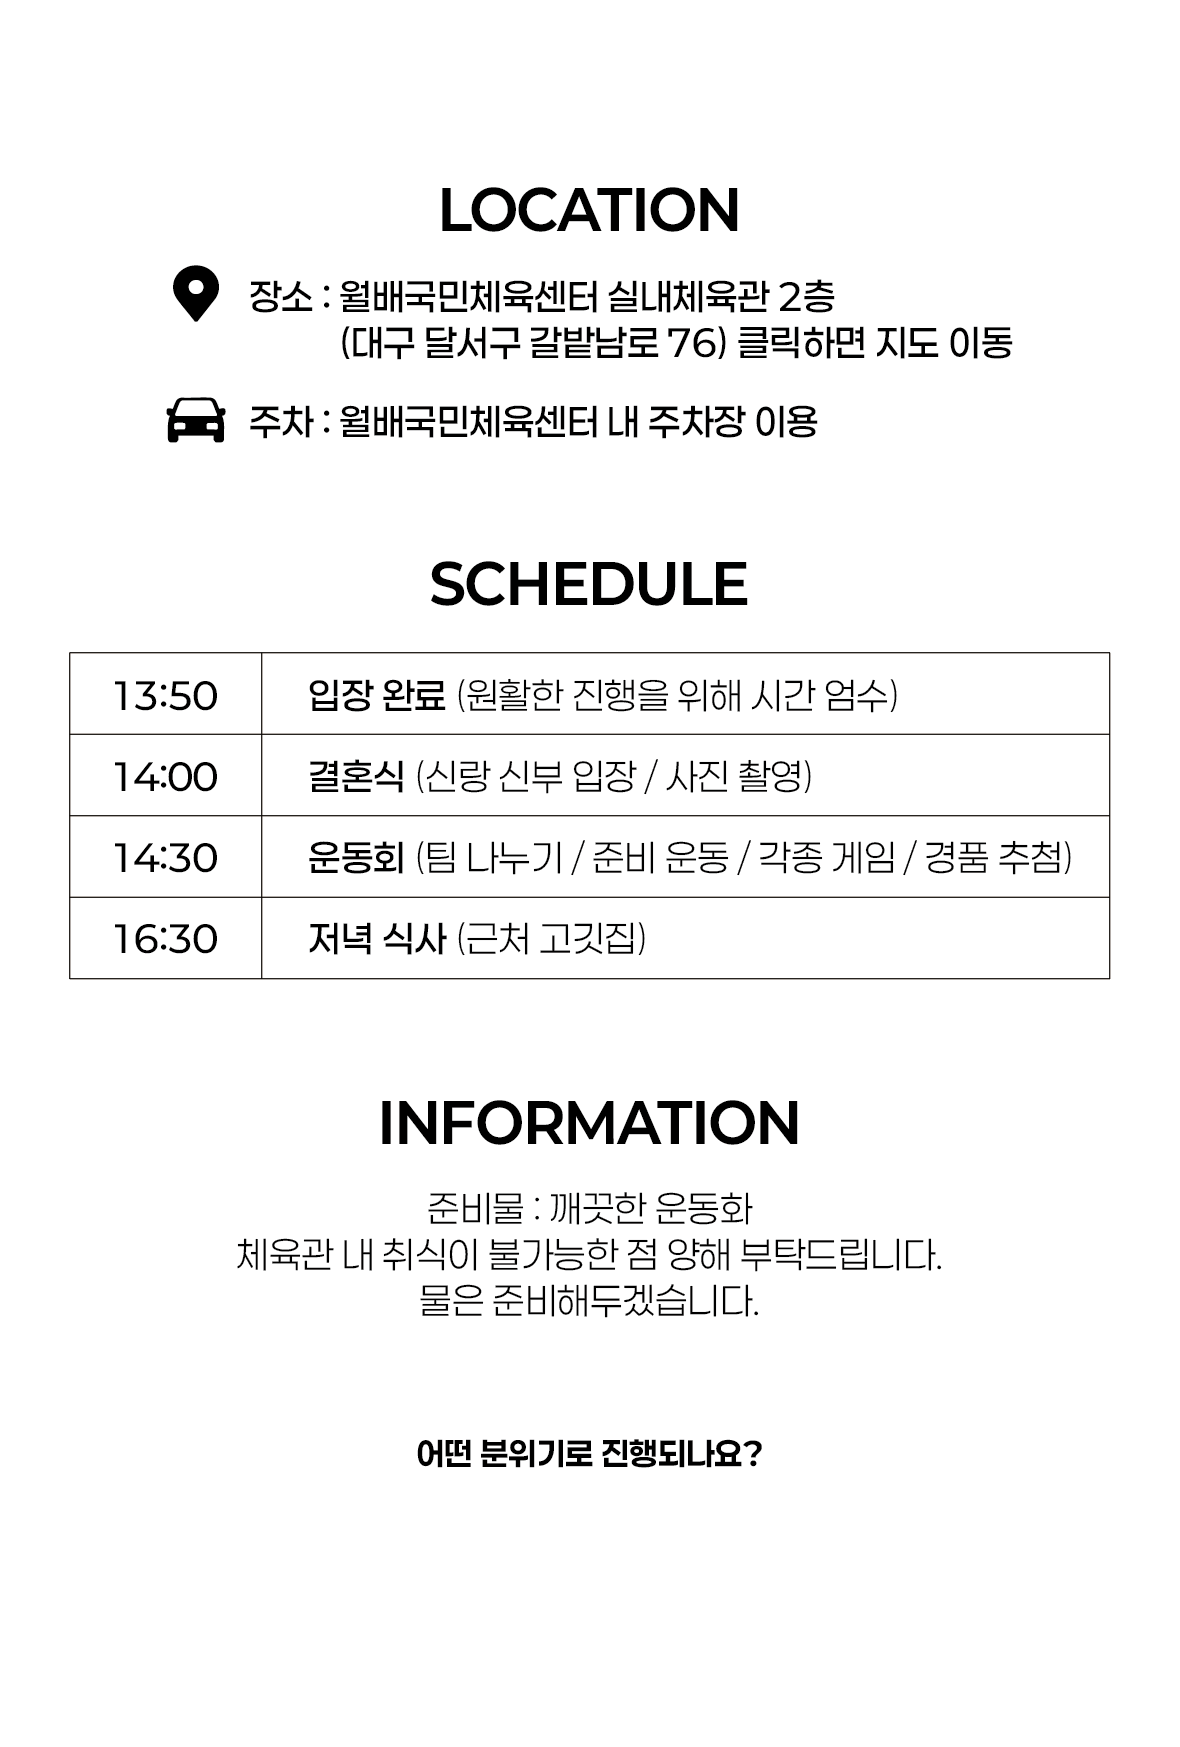
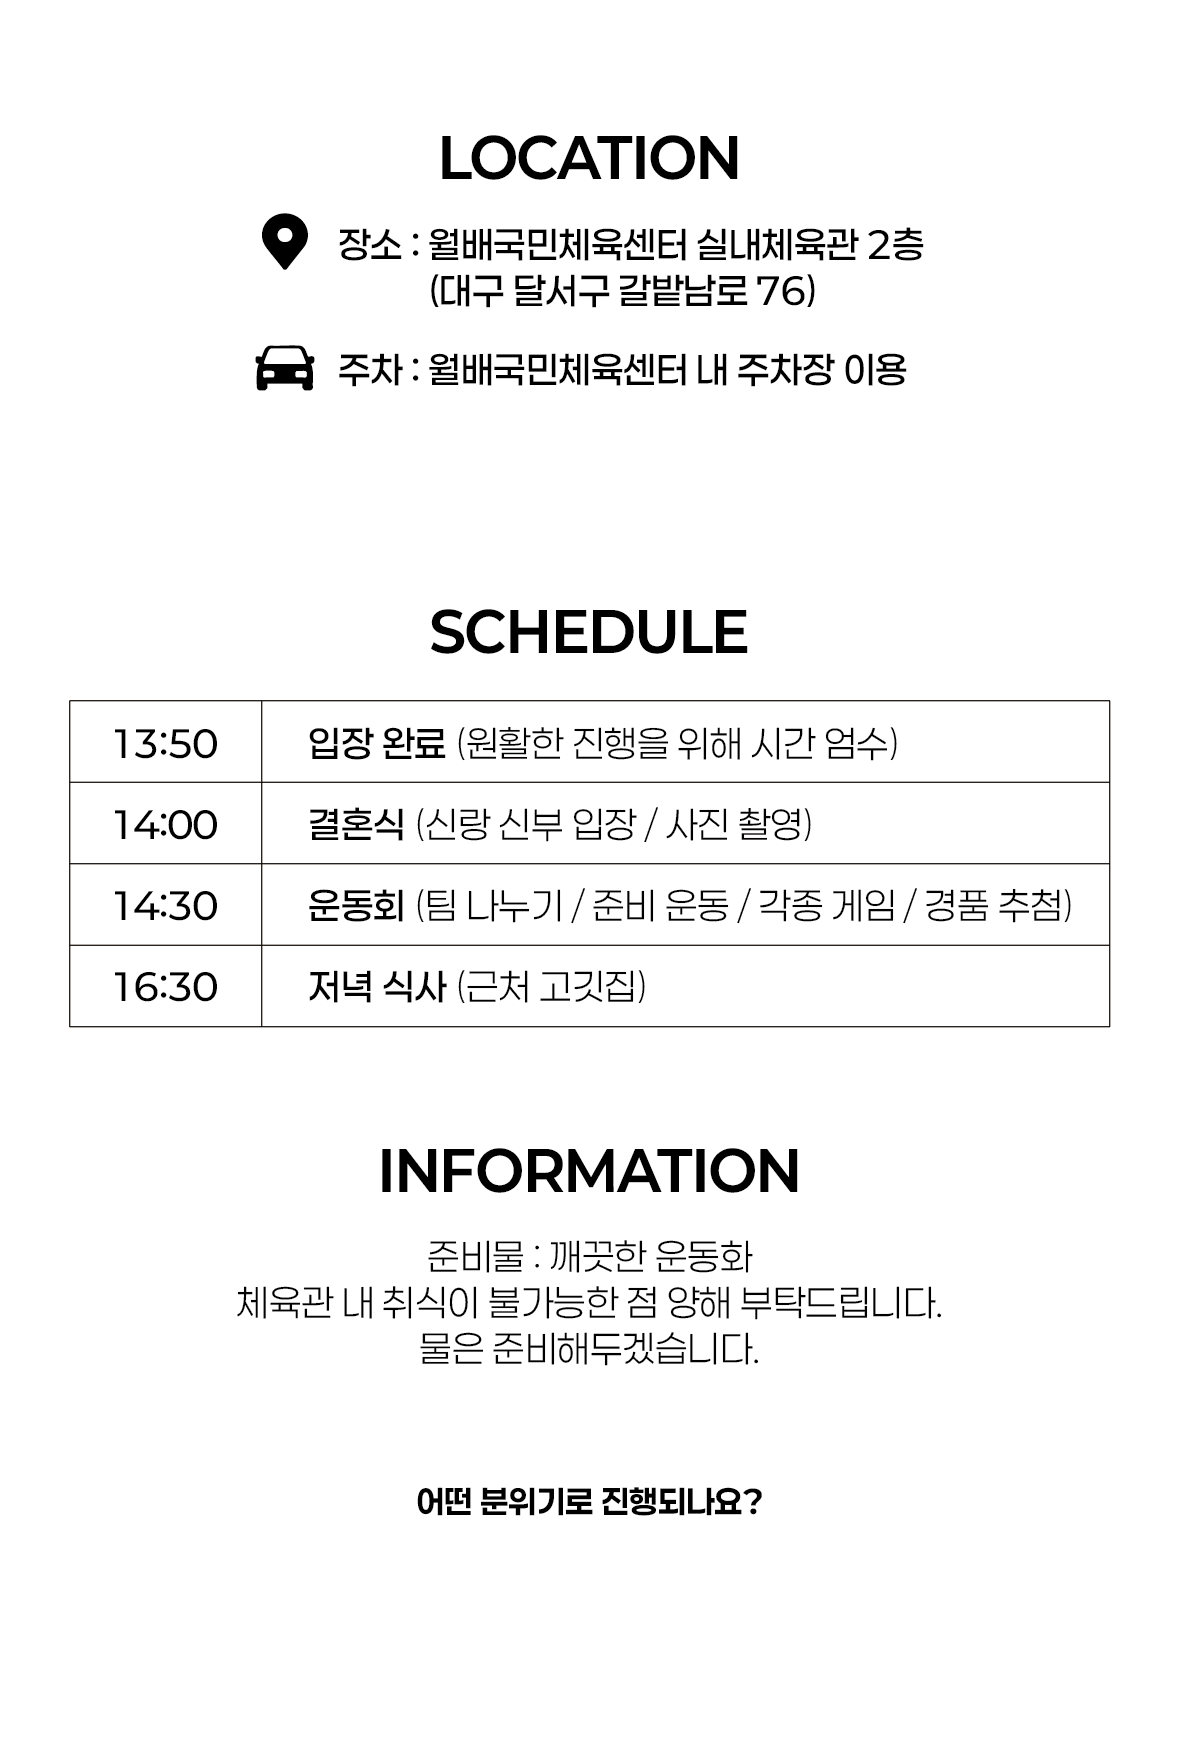
Add map and video buttons to info page with updated layout.
Position 지도 보기 and 영상 보기 on the new 02 image and fix mobile tap handling for external links.

diff --git a/index.html b/index.html
@@ -12,7 +12,7 @@
     html, body {
       width: 100%; height: 100%;
       overflow: hidden;
-      touch-action: none;
+      touch-action: manipulation;
     }
 
     /* ─── 세이지 깅엄 + 핑크 별 배경 (CSS 생성) ───────── */
@@ -278,6 +278,106 @@
       display: block;
     }
 
+    .cover-image-wrap--info {
+      position: relative;
+    }
+
+    /* 이미지 실제 렌더 크기에 맞춰 오버레이 정렬 */
+    .cover-image-frame {
+      position: relative;
+      aspect-ratio: 1180 / 1747;
+      max-width: 100%;
+      max-height: 100%;
+      width: auto;
+      height: auto;
+      line-height: 0;
+    }
+
+    .cover-image-frame .cover-image {
+      width: 100%;
+      height: 100%;
+      object-fit: contain;
+      display: block;
+    }
+
+    .vibe-link-btn {
+      position: absolute;
+      left: 50%;
+      bottom: 6%;
+      transform: translateX(-50%);
+      z-index: 7;
+      display: inline-flex;
+      align-items: center;
+      gap: 3px;
+      background: rgba(255, 255, 250, 0.92);
+      border: 1px solid #a0cc9a;
+      border-radius: 14px;
+      padding: 4px 10px;
+      font-size: 9px;
+      color: #5a7a5a;
+      font-family: 'Noto Sans KR', sans-serif;
+      font-weight: 500;
+      text-decoration: none;
+      cursor: pointer;
+      box-shadow: 1px 2px 6px rgba(0,0,0,0.1);
+      backdrop-filter: blur(4px);
+      transition: background .18s, transform .18s;
+      white-space: nowrap;
+      touch-action: manipulation;
+      pointer-events: auto;
+    }
+
+    .vibe-link-btn__icon {
+      flex-shrink: 0;
+      width: 11px;
+      height: 11px;
+      fill: #6aaa6a;
+    }
+
+    .vibe-link-btn:active {
+      background: #e0f0dc;
+      transform: translateX(-50%) translateY(-1px);
+    }
+
+    .map-link-btn {
+      position: absolute;
+      left: 50%;
+      top: 24%;
+      transform: translateX(-50%);
+      z-index: 7;
+      display: inline-flex;
+      align-items: center;
+      gap: 3px;
+      background: rgba(255, 255, 250, 0.94);
+      border: 1px solid #a0cc9a;
+      border-radius: 14px;
+      padding: 4px 10px;
+      font-size: 9px;
+      color: #5a7a5a;
+      font-family: 'Noto Sans KR', sans-serif;
+      font-weight: 500;
+      text-decoration: none;
+      cursor: pointer;
+      box-shadow: 1px 2px 6px rgba(0,0,0,0.1);
+      backdrop-filter: blur(4px);
+      transition: background .18s, transform .18s;
+      white-space: nowrap;
+      touch-action: manipulation;
+      pointer-events: auto;
+    }
+
+    .map-link-btn__icon {
+      flex-shrink: 0;
+      width: 11px;
+      height: 11px;
+      fill: #6aaa6a;
+    }
+
+    .map-link-btn:active {
+      background: #e0f0dc;
+      transform: translateX(-50%) translateY(-1px);
+    }
+
     /* ─── PAGE 3: 사진 ───────────────────────────────────── */
     .page-photo {
       justify-content: center;
@@ -491,8 +591,33 @@
 
           <!-- ── PAGE 2: 웨딩 정보 (이미지) ── -->
           <div class="page page-cover" id="page-1">
-            <div class="cover-image-wrap">
-              <img src="image/02.png" alt="웨딩 정보" class="cover-image">
+            <div class="cover-image-wrap cover-image-wrap--info">
+              <div class="cover-image-frame">
+                <img src="image/02.png" alt="웨딩 정보" class="cover-image">
+                <a
+                  class="map-link-btn"
+                  id="mapLinkBtn"
+                  href="https://map.naver.com/p/search/%EC%9B%94%EB%B0%B0%EA%B5%AD%EB%AF%BC%EC%B2%B4%EC%9C%A1%EC%84%BC%ED%84%B0/place/36913993?placePath=%2Fhome%3FabtExp%3DNEW-PLACE-SEARCH%3A2%26bk_query%3D%EC%9B%94%EB%B0%B0%EA%B5%AD%EB%AF%BC%EC%B2%B4%EC%9C%A1%EC%84%BC%ED%84%B0%26entry%3Dpll%26from%3Dnx%26fromNxList%3Dtrue%26from%3Dmap%26fromPanelNum%3D2%26timestamp%3D202606261417%26locale%3Dko%26svcName%3Dmap_pcv5%26searchText%3D%EC%9B%94%EB%B0%B0%EA%B5%AD%EB%AF%BC%EC%B2%B4%EC%9C%A1%EC%84%BC%ED%84%B0&placeSearchOption=abtExp%3DNEW-PLACE-SEARCH%253A2%26bk_query%3D%25EC%259B%2594%25EB%25B0%25B0%25EA%25B5%25AD%25EB%25AF%25BC%25EC%25B2%25B4%25EC%259C%25A1%25EC%2584%25BC%25ED%2584%25B0%26entry%3Dpll%26fromNxList%3Dtrue%26originalQuery%3D%25EC%259B%2594%25EB%25B0%25B0%25EA%25B5%25AD%25EB%25AF%25BC%25EC%25B2%25B4%25EC%259C%25A1%25EC%2584%25BC%25ED%2584%25B0%26x%3D128.459816%26y%3D35.693930&searchType=place&c=15.00,0,0,0,dh"
+                  target="_blank"
+                  rel="noopener noreferrer"
+                >
+                  <svg class="map-link-btn__icon" viewBox="0 0 24 24" aria-hidden="true">
+                    <path d="M12 2C8.13 2 5 5.13 5 9c0 5.25 7 13 7 13s7-7.75 7-13c0-3.87-3.13-7-7-7zm0 9.5c-1.38 0-2.5-1.12-2.5-2.5s1.12-2.5 2.5-2.5 2.5 1.12 2.5 2.5-1.12 2.5-2.5 2.5z"/>
+                  </svg>
+                  지도 보기
+                </a>
+                <a
+                  class="vibe-link-btn"
+                  href="https://www.youtube.com/watch?v=X-CZzvp7vgE"
+                  target="_blank"
+                  rel="noopener noreferrer"
+                >
+                  <svg class="vibe-link-btn__icon" viewBox="0 0 24 24" aria-hidden="true">
+                    <path d="M8 5v14l11-7z"/>
+                  </svg>
+                  영상 보기
+                </a>
+              </div>
             </div>
           </div>
 
@@ -609,13 +734,40 @@
     /* ── 링 생성 ── */
     (function() {
       const rings = document.getElementById('rings');
-      const diary = document.getElementById('diary');
       const n = 9;
       for (let i = 0; i < n; i++) {
         const r = document.createElement('div');
         r.className = 'ring';
         rings.appendChild(r);
       }
+    })();
+
+    /* ── 정보 이미지 위 버튼 맞춤 ── */
+    function syncInfoFrameSize() {
+      const frame = document.querySelector('.cover-image-frame');
+      const img = frame?.querySelector('img');
+      if (!frame || !img || !img.clientWidth || !img.clientHeight) return;
+      frame.style.width = img.clientWidth + 'px';
+      frame.style.height = img.clientHeight + 'px';
+    }
+
+    (function() {
+      const img = document.querySelector('.cover-image-frame img');
+      if (!img) return;
+
+      if (img.complete) syncInfoFrameSize();
+      else img.addEventListener('load', syncInfoFrameSize, { once: true });
+
+      window.addEventListener('resize', syncInfoFrameSize);
+      if (typeof ResizeObserver !== 'undefined') {
+        new ResizeObserver(syncInfoFrameSize).observe(img);
+      }
+
+      document.getElementById('mapLinkBtn')?.addEventListener('click', function(e) {
+        e.stopPropagation();
+        window.open(this.href, '_blank', 'noopener,noreferrer');
+        e.preventDefault();
+      });
     })();
 
     /* ── 페이지 전환 ── */
@@ -653,6 +805,7 @@
         $next.style.pointerEvents = 'auto';
         cur = next;
         updateUI();
+        if (next === 1) requestAnimationFrame(syncInfoFrameSize);
         busy = false;
       }, 440);
     }
@@ -676,15 +829,18 @@
     }
 
     /* ── 스와이프 지원 ── */
-    let tx = 0, ty = 0;
+    let tx = 0, ty = 0, swipeBlocked = false;
     const diary = document.getElementById('diary');
 
     diary.addEventListener('touchstart', e => {
+      swipeBlocked = !!e.target.closest('a');
+      if (swipeBlocked) return;
       tx = e.touches[0].clientX;
       ty = e.touches[0].clientY;
     }, { passive: true });
 
     diary.addEventListener('touchend', e => {
+      if (swipeBlocked) return;
       const dx = e.changedTouches[0].clientX - tx;
       const dy = e.changedTouches[0].clientY - ty;
       if (Math.abs(dx) > Math.abs(dy) && Math.abs(dx) > 38)
